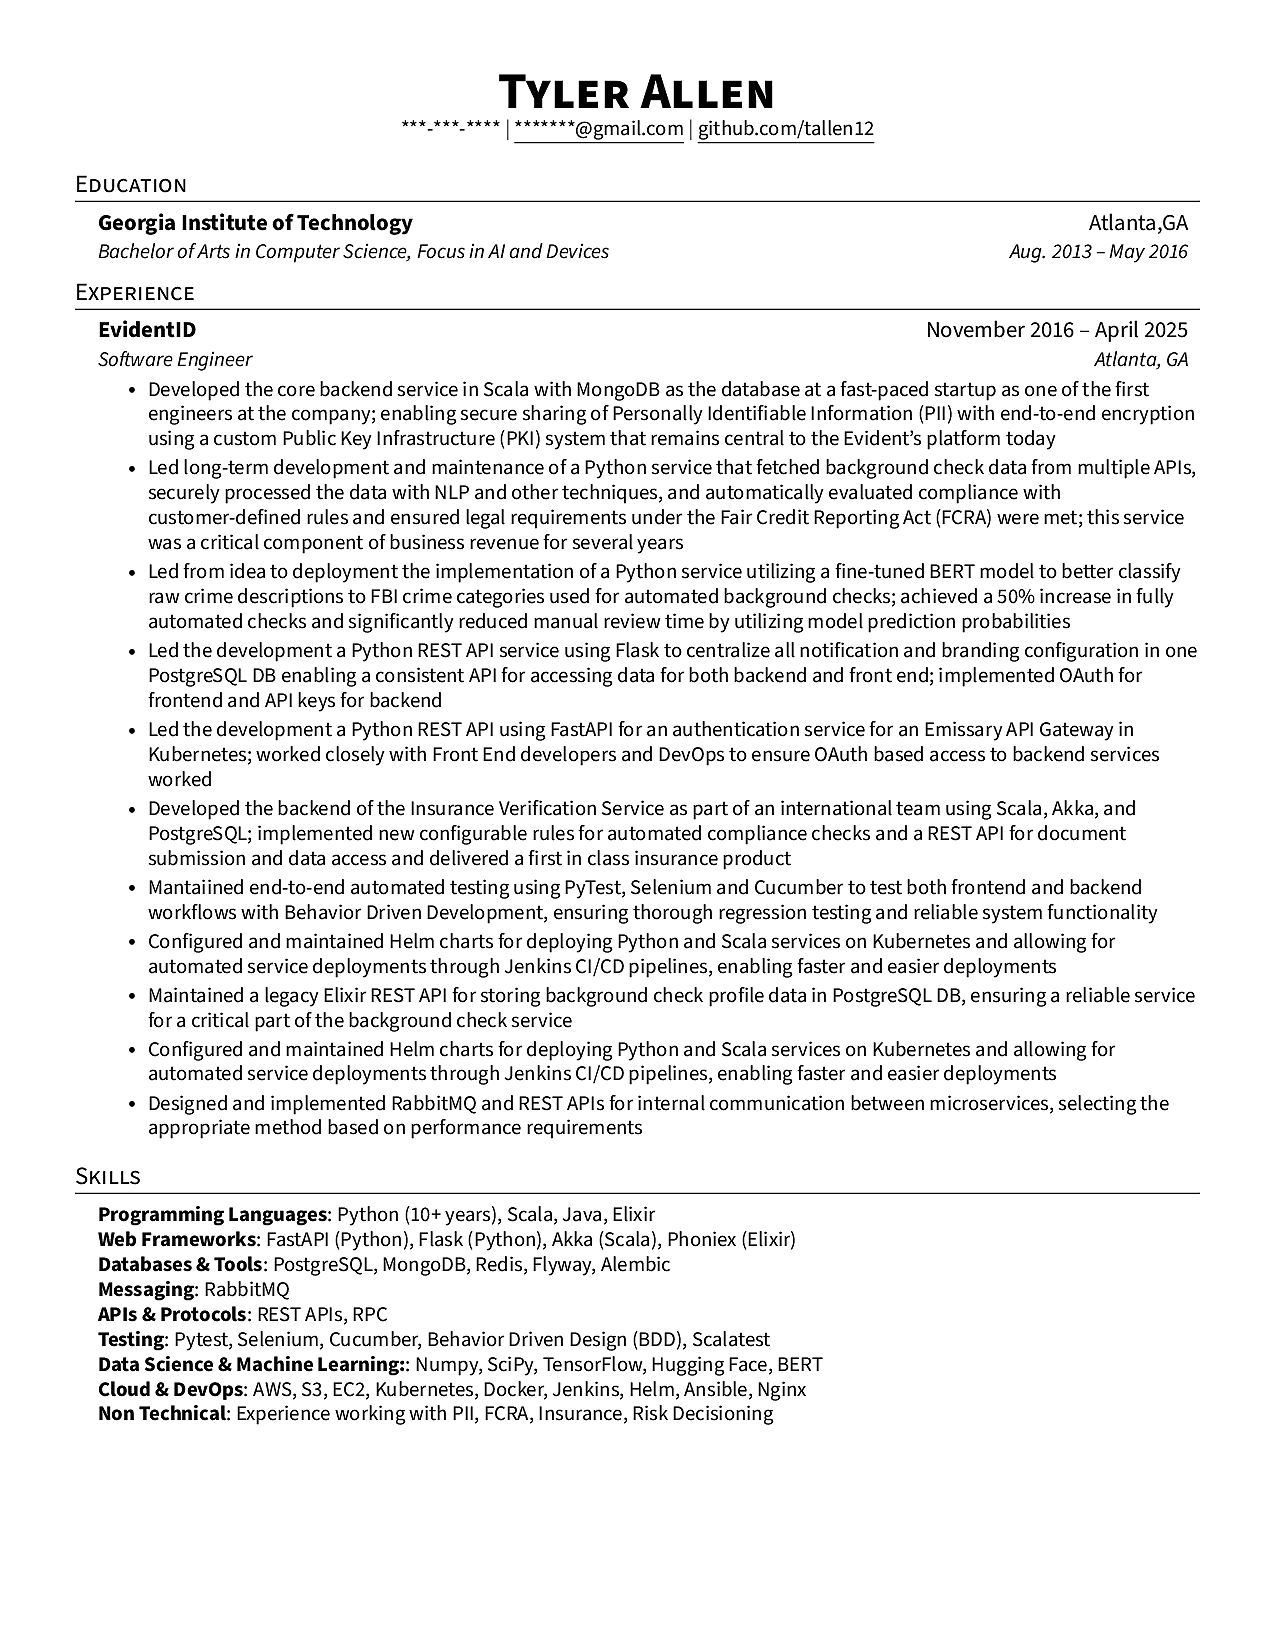
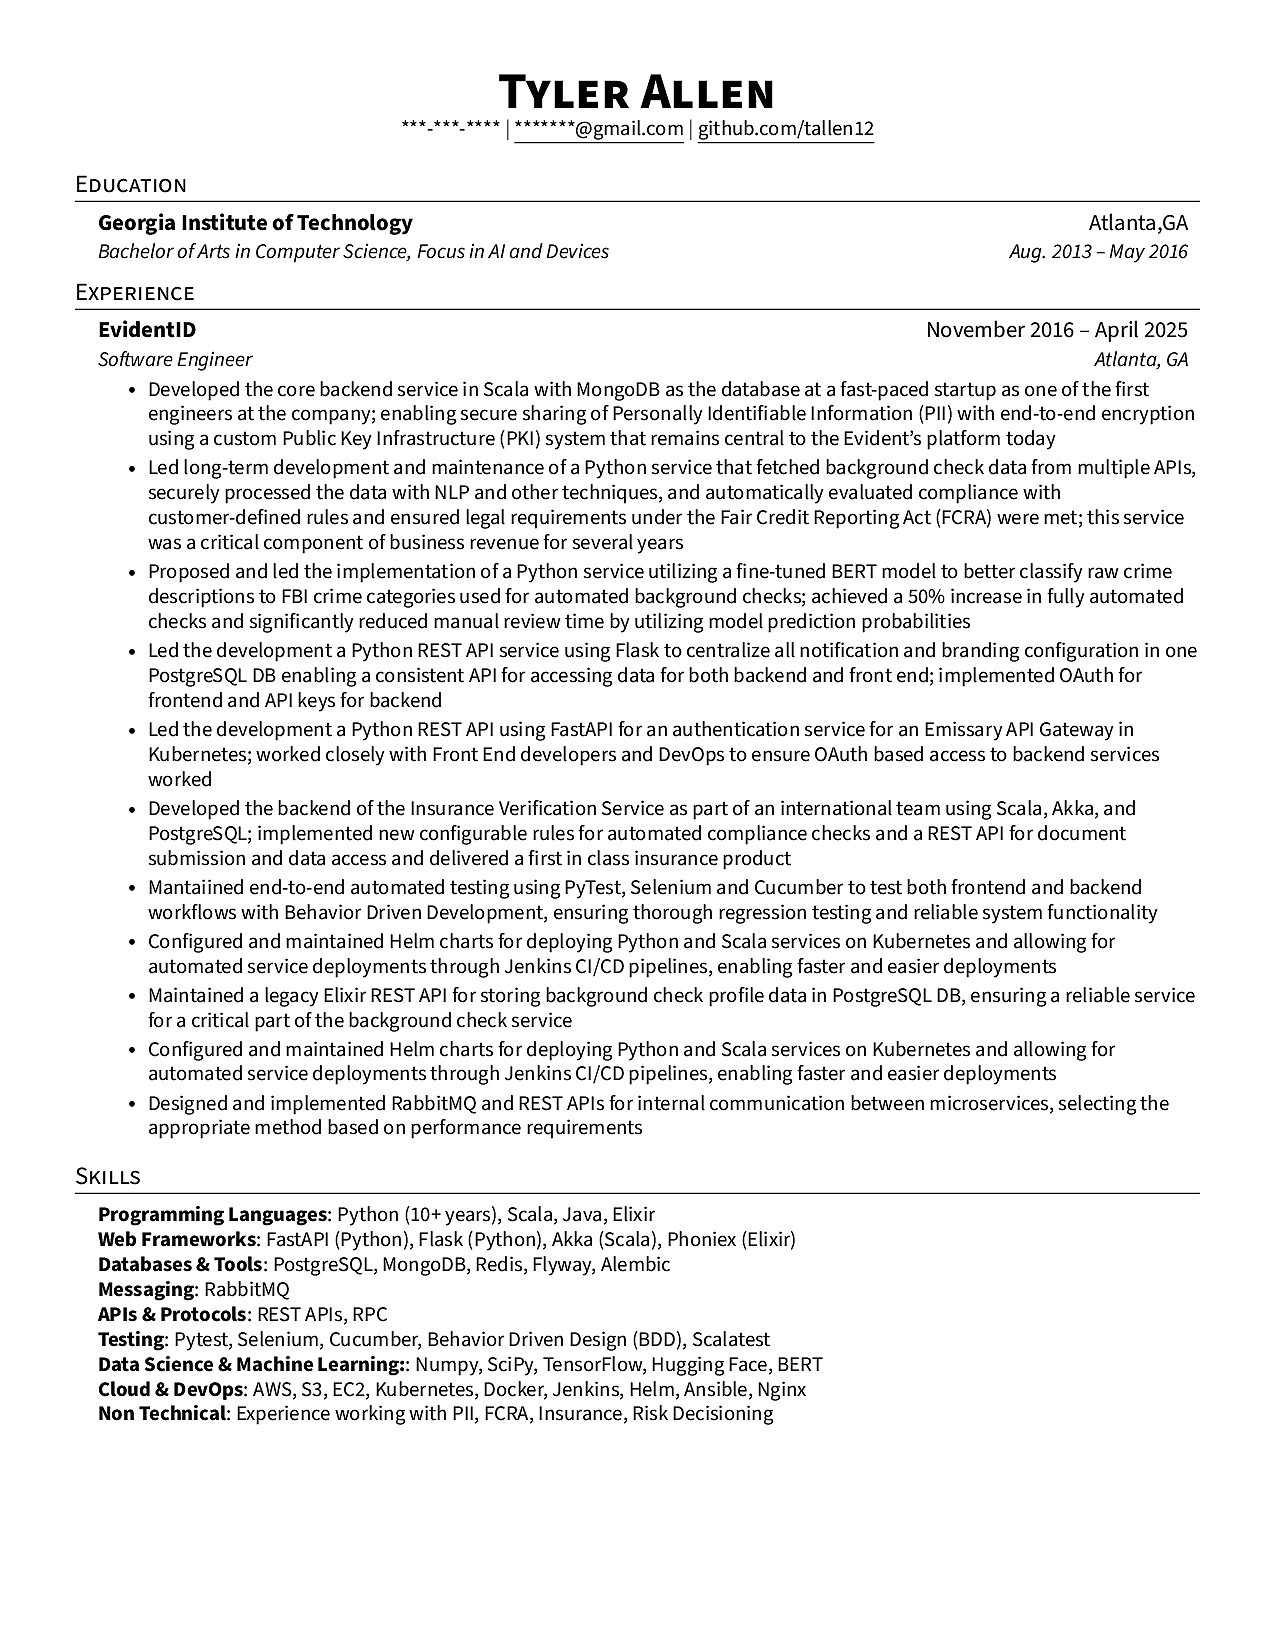
minor change to wording on AI classifier bullet to emphasize i propos… (#14)
* minor change to wording on AI classifier bullet to emphasize i proposed the idea

* automated resume update (#15)

---------

Changed region(s): [[0.1224, 0.34, 0.9176, 0.4018]]

diff --git a/resume.tex b/resume.tex
@@ -152,7 +152,7 @@
       \resumeItemListStart
         \resumeItem{ Developed the core backend service in Scala with MongoDB as the database at a fast-paced startup as one of the first engineers at the company; enabling secure sharing of Personally Identifiable Information (PII) with end-to-end encryption using a custom Public Key Infrastructure (PKI) system that remains central to the Evident's platform today}
         \resumeItem{ Led long-term development and maintenance of a Python service that fetched background check data from multiple APIs, securely processed the data with NLP and other techniques, and automatically evaluated compliance with customer-defined rules and ensured legal requirements under the Fair Credit Reporting Act (FCRA) were met; this service was a critical component of business revenue for several years}
-        \resumeItem{ Led from idea to deployment the implementation of a Python service utilizing a fine-tuned BERT model to better classify raw crime descriptions to FBI crime categories used for automated background checks; achieved a 50\% increase in fully automated checks and significantly reduced manual review time by utilizing model prediction probabilities}
+        \resumeItem{ Proposed and led the implementation of a Python service utilizing a fine-tuned BERT model to better classify raw crime descriptions to FBI crime categories used for automated background checks; achieved a 50\% increase in fully automated checks and significantly reduced manual review time by utilizing model prediction probabilities}
         \resumeItem{ Led the development a Python REST API service using Flask to centralize all notification and branding configuration in one PostgreSQL DB enabling a consistent API for accessing data for both backend and front end; implemented OAuth for frontend and API keys for backend }
         \resumeItem{ Led the development a Python REST API using FastAPI for an authentication service for an Emissary API Gateway in Kubernetes; worked closely with Front End developers and DevOps to ensure OAuth based access to backend services worked}
         \resumeItem{ Developed the backend of the Insurance Verification Service as part of an international team using Scala, Akka, and PostgreSQL; implemented new configurable rules for automated compliance checks and a REST API for document submission and data access and delivered a first in class insurance product}
